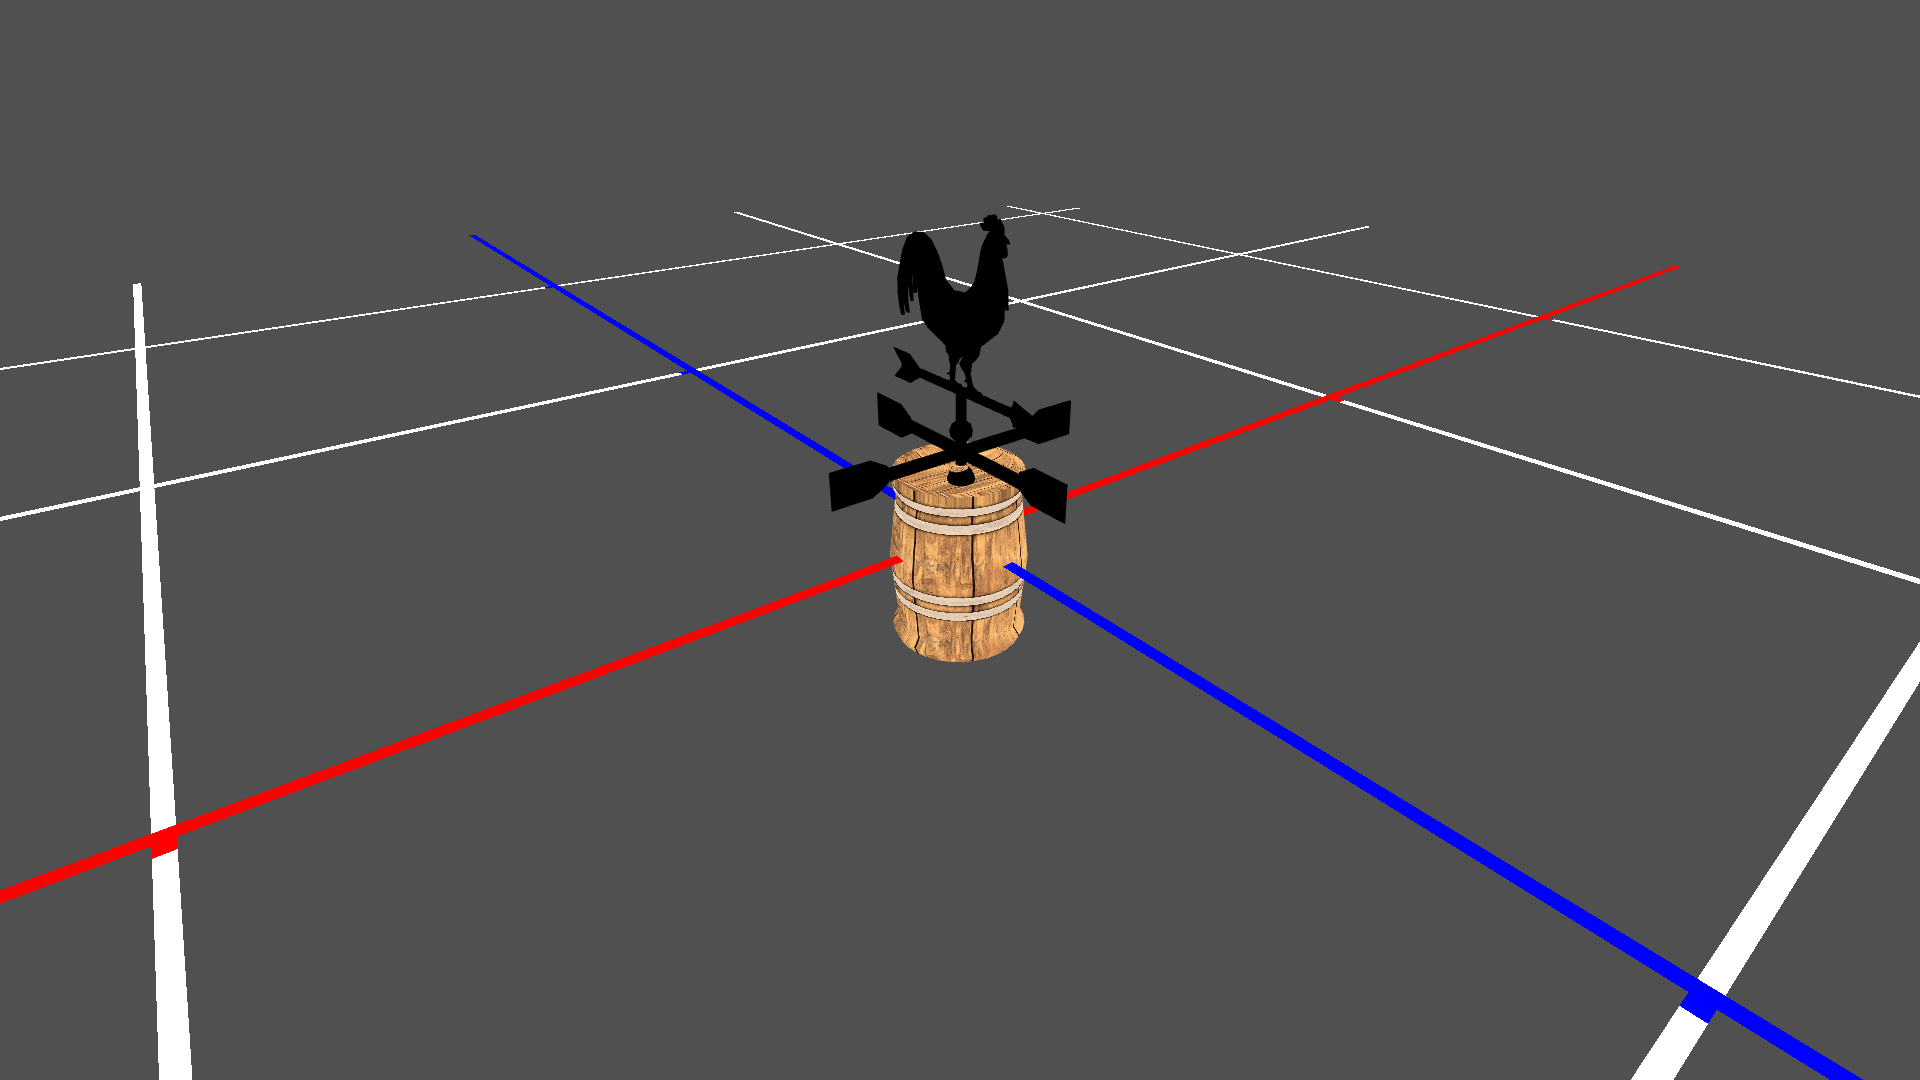
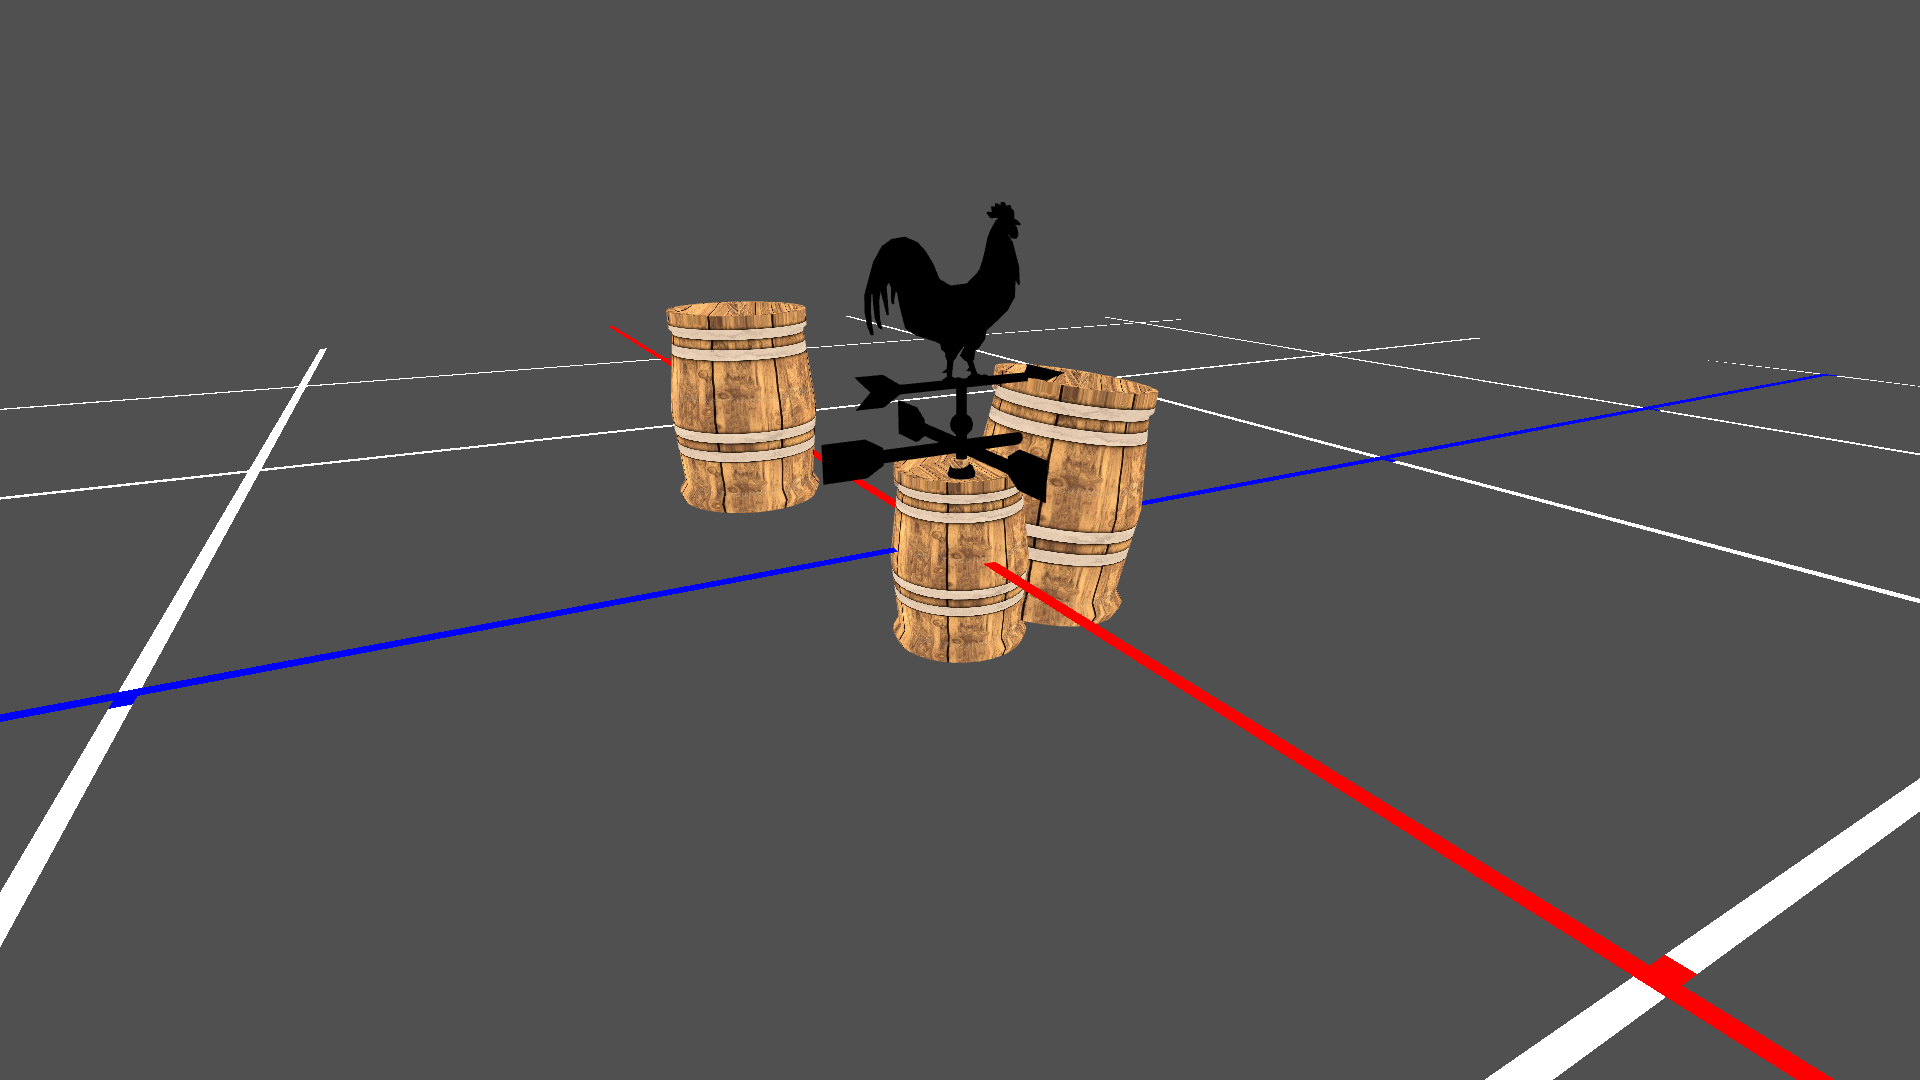
Exportar imagen funcionando con fondo

diff --git a/js/webgl/RendererRefactor.js b/js/webgl/RendererRefactor.js
@@ -50,6 +50,10 @@ class RendererRefactor {
         gl.canvas.width = RendererRefactor.resolucionX;
         gl.canvas.height = RendererRefactor.resolucionY;
         gl.viewport(0, 0, gl.canvas.width, gl.canvas.height);
+
+        //actualizar matriz de perspectiva
+        RendererRefactor.aspecto = gl.canvas.width / gl.canvas.height;
+        RendererRefactor.matrizP = Utilidades.crearMatrizPerspectiva(60.0, RendererRefactor.aspecto, 0.1, 1000.0);
     }
 
     static crearSupervalores () {
@@ -115,7 +119,6 @@ class RendererRefactor {
 
     static actualizar () {
 
-        console.log(RendererRefactor.resolucionX + ", " + RendererRefactor.resolucionY);
         RendererRefactor.camara.actualizar();
         
         //actualizar parametros con valor actual de supervalores

diff --git a/js/webgl/Color.js b/js/webgl/Color.js
@@ -116,17 +116,21 @@ class Color {
           b = "0x" + h[5] + h[6];
           a = "0x" + h[7] + h[8];
         }
-        a = +(a / 255).toFixed(3);
+        //a = +(a / 255).toFixed(3);
       
+        //todos en rango 0 - 255
         return new Color(r,g,b,a);
     }
 
     //lee un hexa de tipo #123456 y devuelve un Color
     static leerHexa6 (h) {
+
+        //max 255
         let r = h[1] + h[2];
         let g = h[3] + h[4];
         let b = h[5] + h[6];
         let a = "ff";
+
         let hexaCompleto = "#" + r + g + b + a;
         return Color.convertirHexadecimalRGBA(hexaCompleto);
     }

diff --git a/js/gui/VentanaCanvas/Canvas.css b/js/gui/VentanaCanvas/Canvas.css
@@ -14,6 +14,3 @@ canvas.maximizado {
     height: 100vh;
     overflow: hidden;
 }
-.VentanaCanvas {
-    background-color: black;
-}
